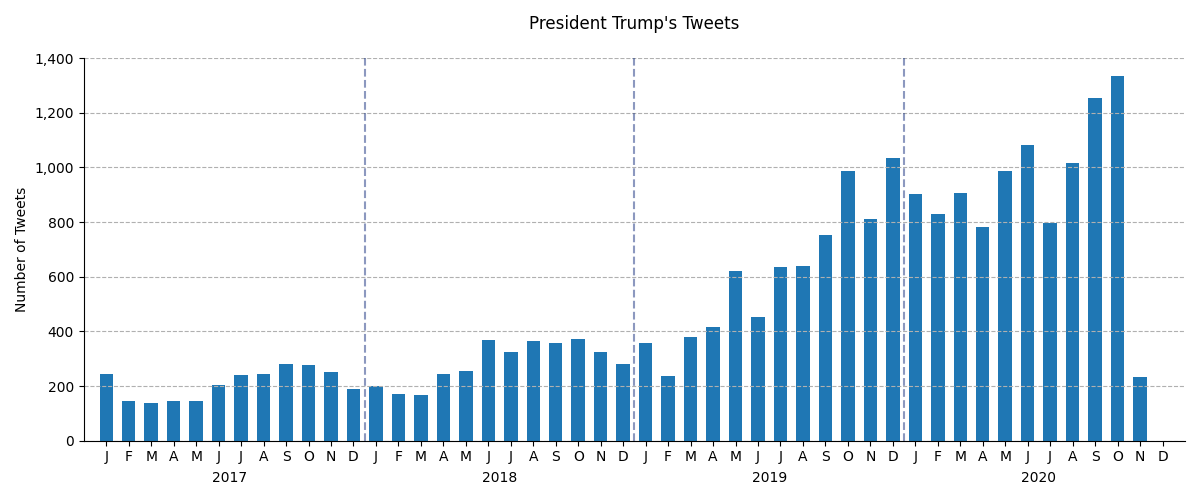
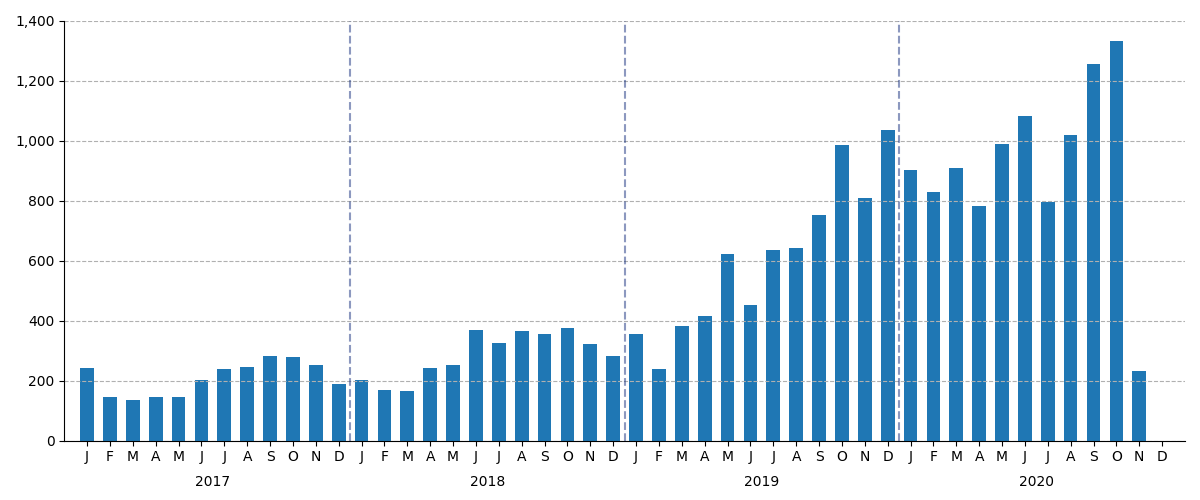
remove titles

diff --git a/scripts/make_charts.py b/scripts/make_charts.py
@@ -26,7 +26,8 @@ f_name = 'plt_01.png'
 fig = plt.figure() # creates current figure
 ax = plt.subplot() # creates current axes
 
-ax.set_title(title)
+#ax.set_title(title)
+#ax.set_ylabel('Number of Tweets')
 
 ts = []
 for y in yrs:
@@ -63,8 +64,6 @@ ax.grid(axis='y', which='major', linestyle='--')
 ax.spines['top'].set_visible(False)
 ax.spines['right'].set_visible(False)
 
-ax.set_ylabel('Number of Tweets')
-
 fig.savefig(f_name)
 plt.close() # closes current figure (not required but keeps the memory clean)
 
@@ -80,7 +79,8 @@ f_name = 'plt_02.png'
 fig = plt.figure() # creates current figure
 ax = plt.subplot() # creates current axes
 
-ax.set_title(title)
+#ax.set_title(title)
+#ax.set_ylabel('Number of Tweets')
 
 ts_tweet = []
 ts_retwt = []
@@ -119,8 +119,6 @@ ax.grid(axis='y', which='major', linestyle='--')
 ax.spines['top'].set_visible(False)
 ax.spines['right'].set_visible(False)
 
-ax.set_ylabel('Number of Tweets')
-
 fig.savefig(f_name)
 plt.close() # closes current figure (not required but keeps the memory clean)
 
@@ -136,7 +134,8 @@ f_name = 'plt_03.png'
 fig = plt.figure(figsize=(12, 5), tight_layout=True) # creates current figure
 ax = plt.subplot() # creates current axes
 
-ax.set_title(title)
+#ax.set_title(title)
+#ax.set_ylabel('Number of Tweets')
 
 ts = []
 for y in yrs:
@@ -178,8 +177,6 @@ ax.set(xlim=(xmin, xmax))
 # disable spines (lines across axis)
 ax.spines['top'].set_visible(False)
 ax.spines['right'].set_visible(False)
-
-ax.set_ylabel('Number of Tweets')
 
 fig.savefig(f_name)
 plt.close() # closes current figure (not required but keeps the memory clean)
